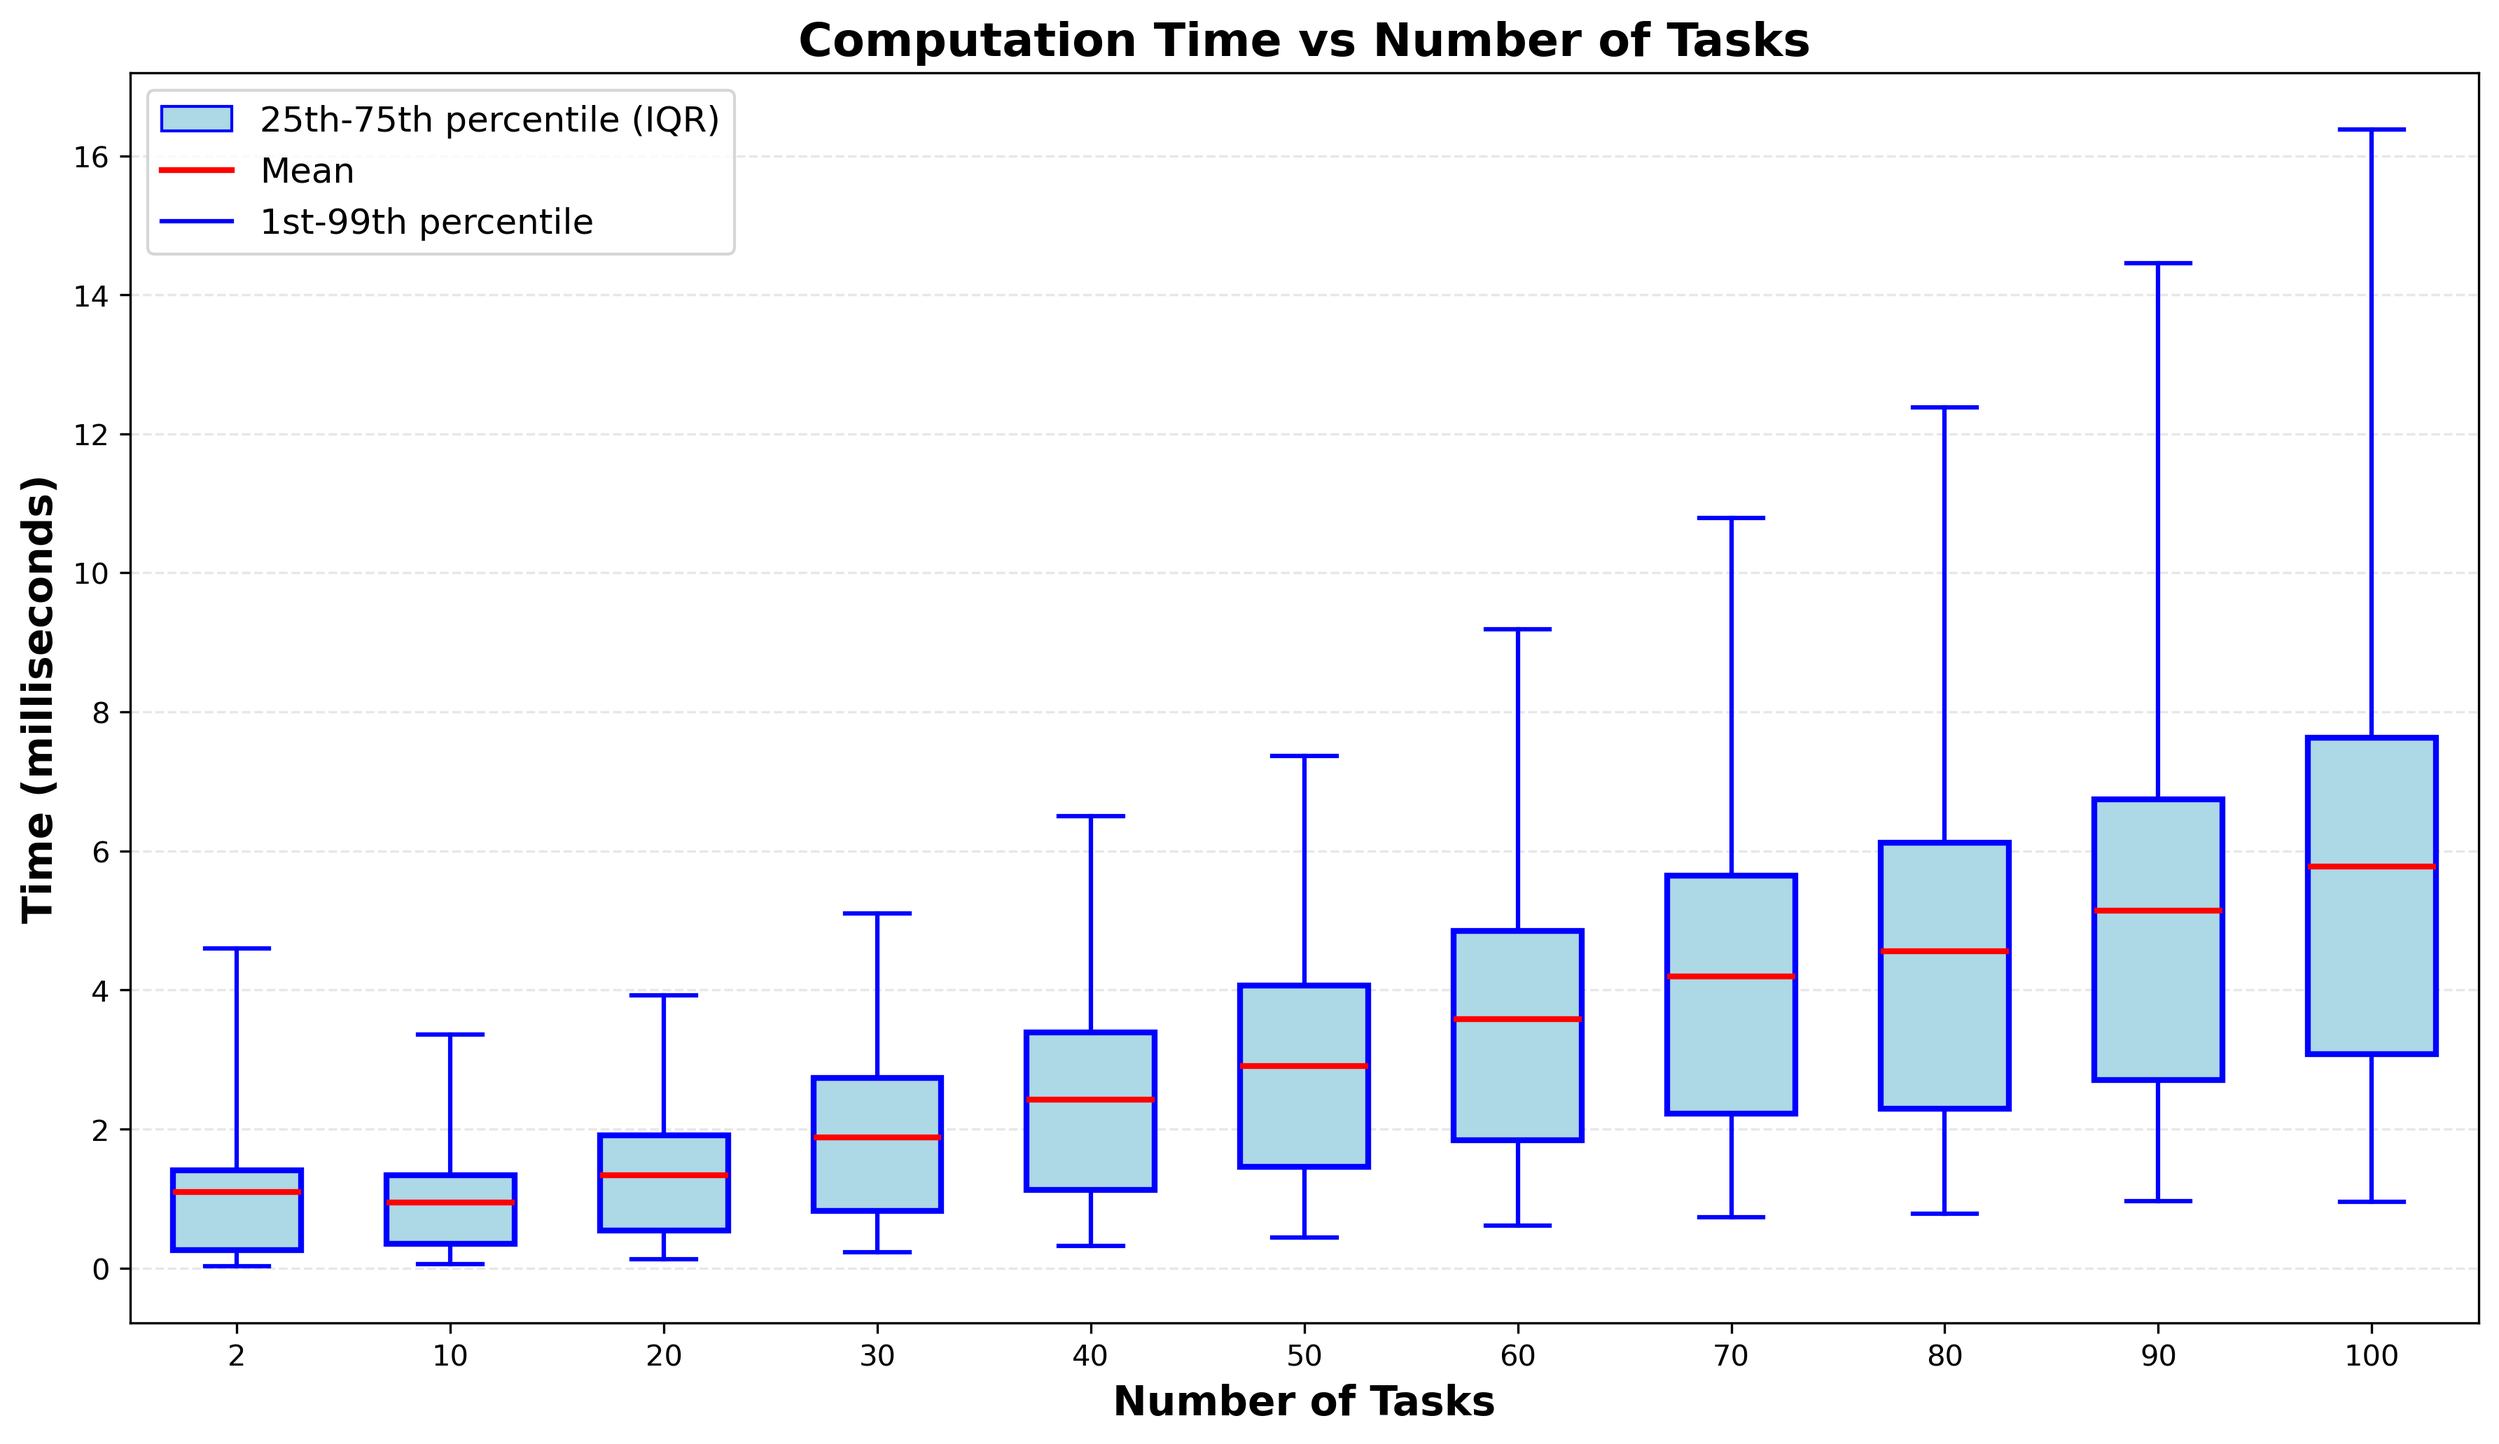
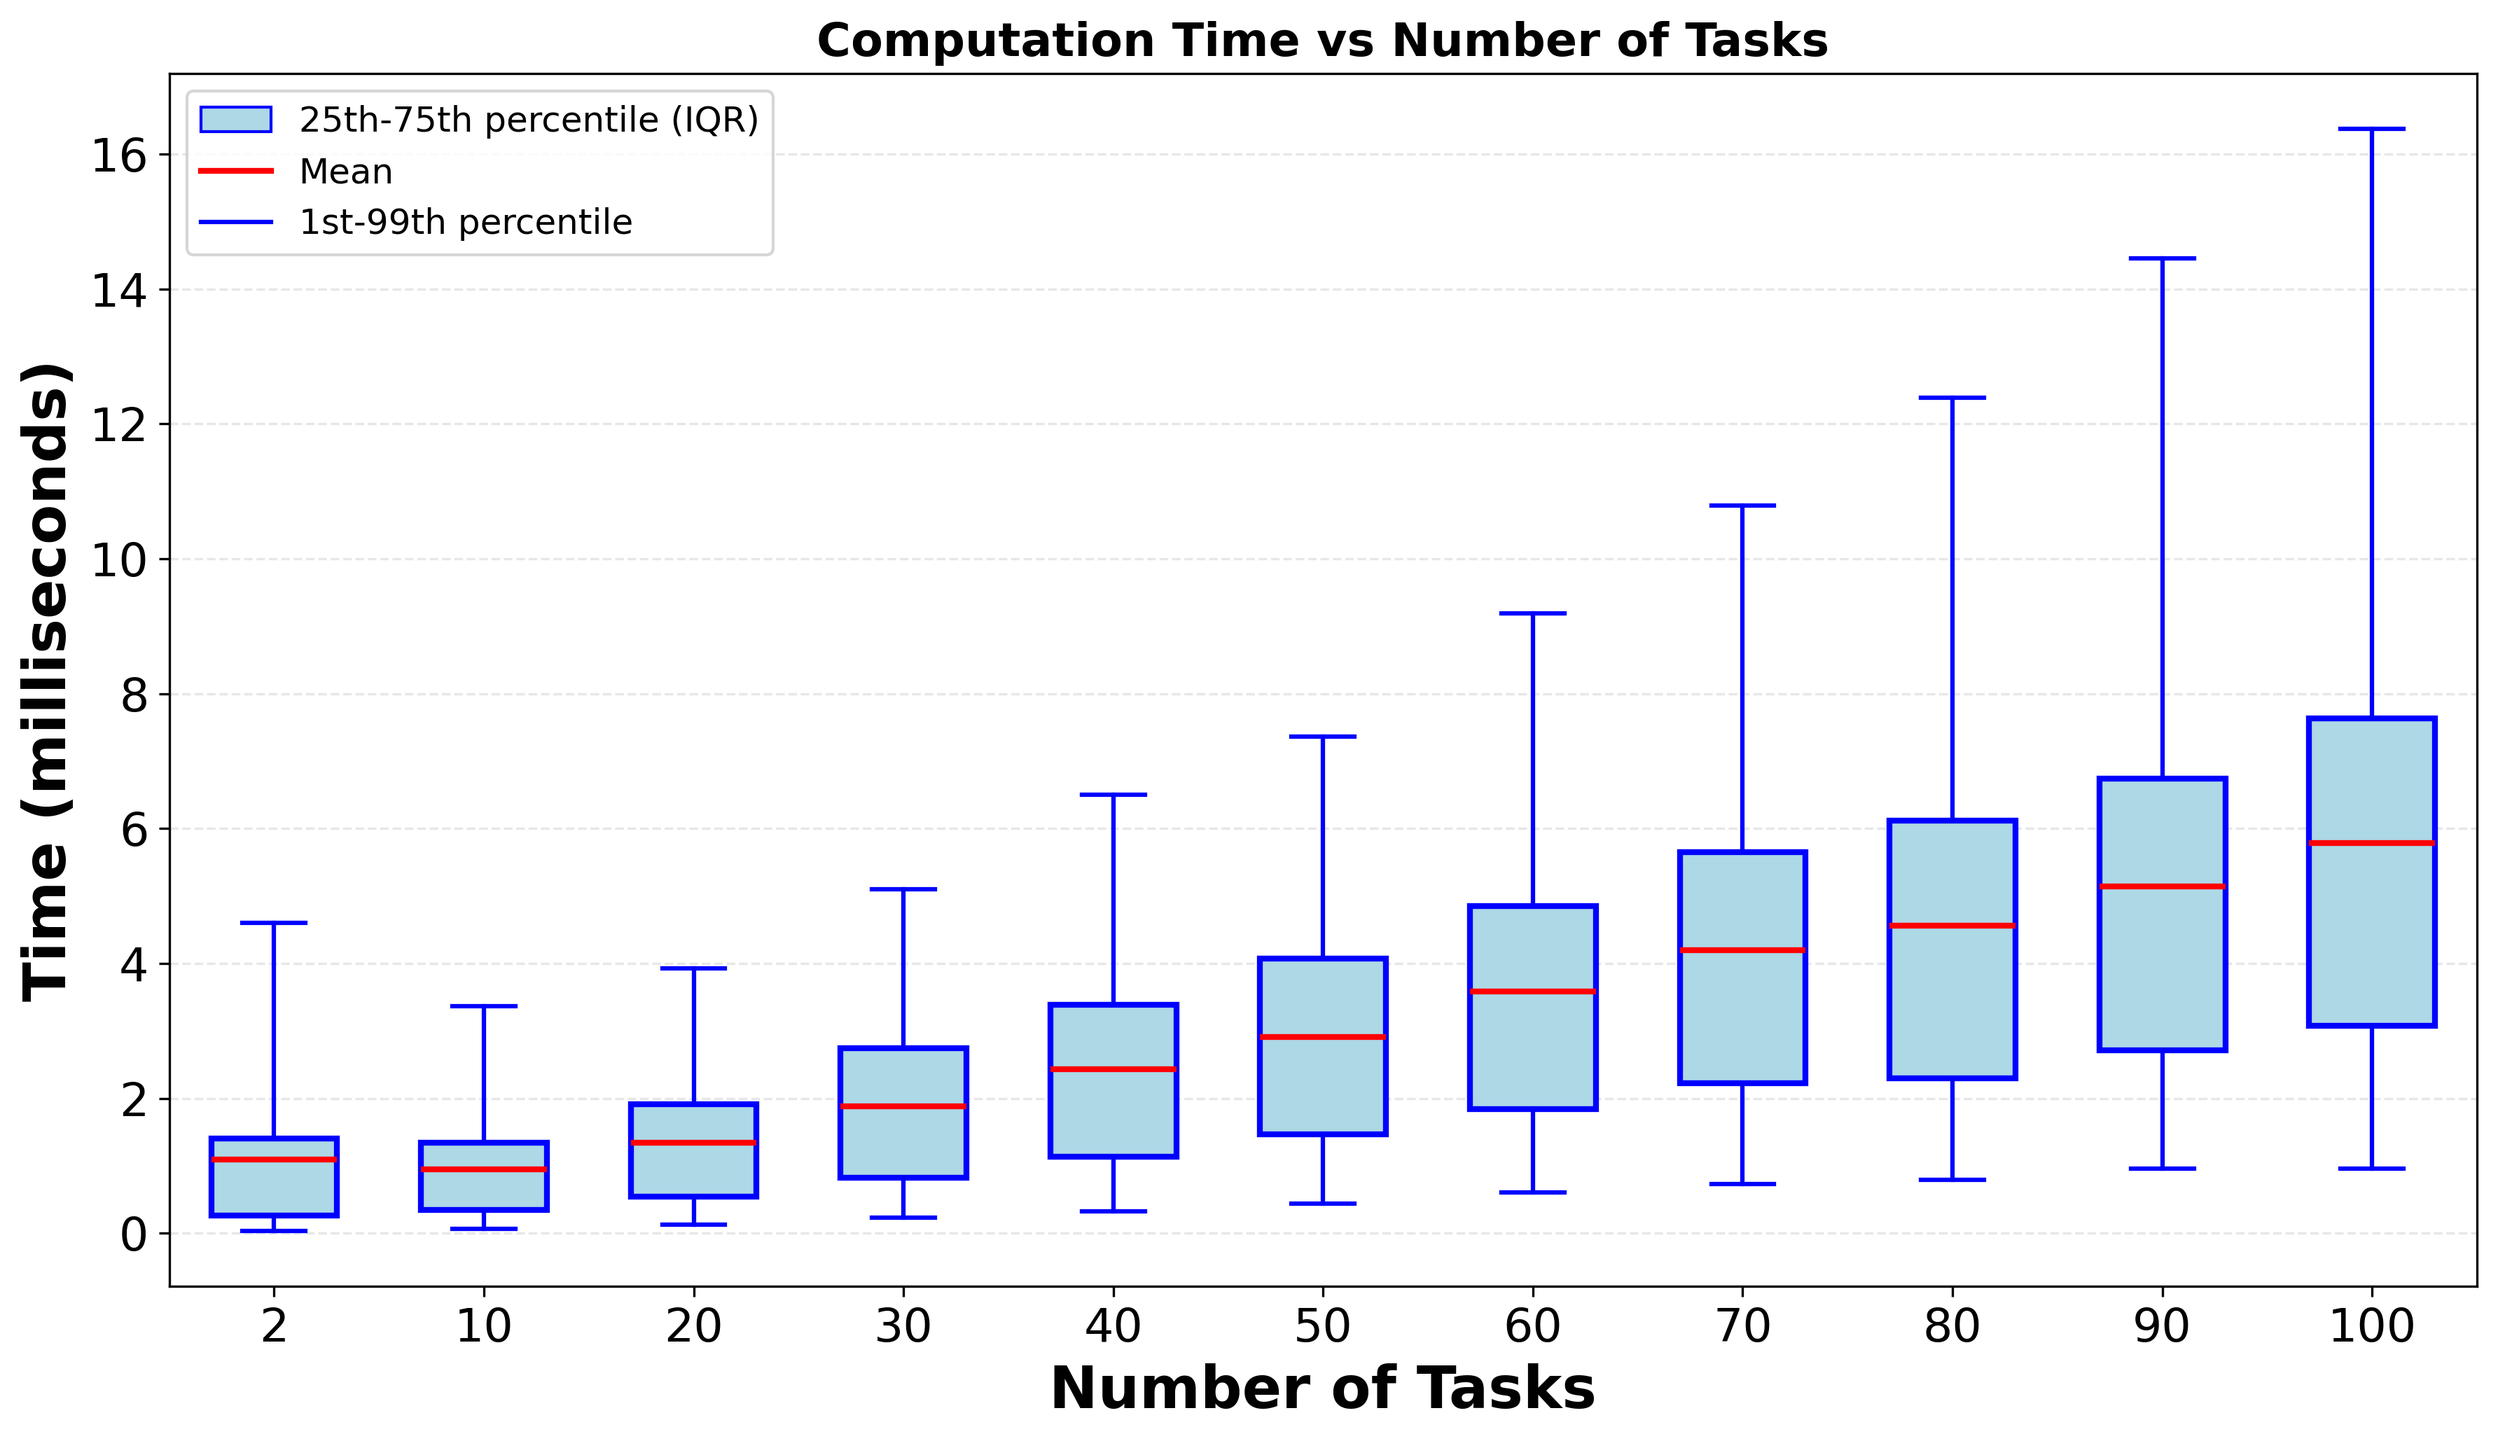
Finding better T_start

diff --git a/careTaking/care_taking_task.py b/careTaking/care_taking_task.py
@@ -128,7 +128,7 @@ def theorem_13_test_njit(ct_tasks_arr, hat_T):
         for t in range(1, int(omega_i_size) + 1):
             sum_val = 0
             for l_idx in L_i_indices:
-                denominator = max(math.ceil(ct_tasks_arr[l_idx, 1] / hat_T), 1)
+                denominator = math.ceil(ct_tasks_arr[l_idx, 1] / hat_T)
                 if denominator > 0:
                     sum_val += math.ceil(t / denominator)
 
@@ -157,15 +157,40 @@ def theorem_13_test(ct_tasks, hat_T):
     ct_tasks_arr = np.array([[task['execution'], task['Delta_down'], task['Delta_up']] for task in ct_tasks])
     return theorem_13_test_njit(ct_tasks_arr, hat_T)
 
+@njit
+def aproximate_T_start(ct_tasks_arr, hat_T):
+    n_tasks = ct_tasks_arr.shape[0]
+    window_sizes= np.zeros((n_tasks, 2))
+
+    for i in range(n_tasks):
+        window_sizes[i][0] = ct_tasks_arr[i, 2] - ct_tasks_arr[i, 1]
+        window_sizes[i][1] = ct_tasks_arr[i, 1] # Delta^down
+
+    old_hat_T = 0
+    while(hat_T != old_hat_T):
+        new_hat_T = hat_T
+
+        for i in range(n_tasks):
+            for l in range(n_tasks):
+                if window_sizes[l][0] > window_sizes[i][0] + (2 * hat_T):
+                    if new_hat_T < window_sizes[l][1]:
+                        new_hat_T = window_sizes[l][1]
+        if new_hat_T == hat_T:
+            return int(hat_T)
+        old_hat_T = hat_T
+        hat_T = new_hat_T
+
+    return int(hat_T)
 
 @njit
 def find_largest_sparse_T_njit(ct_tasks_arr):
     if ct_tasks_arr.shape[0] == 0:
         return -1
 
-    start_T = 1
-    max_T = np.min(ct_tasks_arr[:, 2])
-    for hat_T in range(int(max_T), int(start_T) - 1, -1):
+    end_T = 1
+    start_T = np.min(ct_tasks_arr[:, 2])
+    start_T = aproximate_T_start(ct_tasks_arr,np.min(ct_tasks_arr[:, 2]))
+    for hat_T in range(int(start_T), int(end_T) - 1, -1):
         if theorem_13_test_njit(ct_tasks_arr, hat_T):
             return hat_T
 

diff --git a/careTaking/plot_time_experiments.py b/careTaking/plot_time_experiments.py
@@ -147,8 +147,11 @@ def plot_results(num_tasks, means, p1, p25, p75, p99, output_file=None):
     ax.set_xticks(positions)
     ax.set_xticklabels(num_tasks)
 
-    ax.set_xlabel('Number of Tasks', fontsize=14, fontweight='bold')
-    ax.set_ylabel('Time (milliseconds)', fontsize=14, fontweight='bold')
+    # Set tick label size
+    ax.tick_params(axis='both', which='major', labelsize=16)
+
+    ax.set_xlabel('Number of Tasks', size=20, fontweight='bold')
+    ax.set_ylabel('Time (milliseconds)', size=20, fontweight='bold')
     ax.set_title('Computation Time vs Number of Tasks', fontsize=16, fontweight='bold')
     ax.grid(True, alpha=0.3, linestyle='--', axis='y')
 
